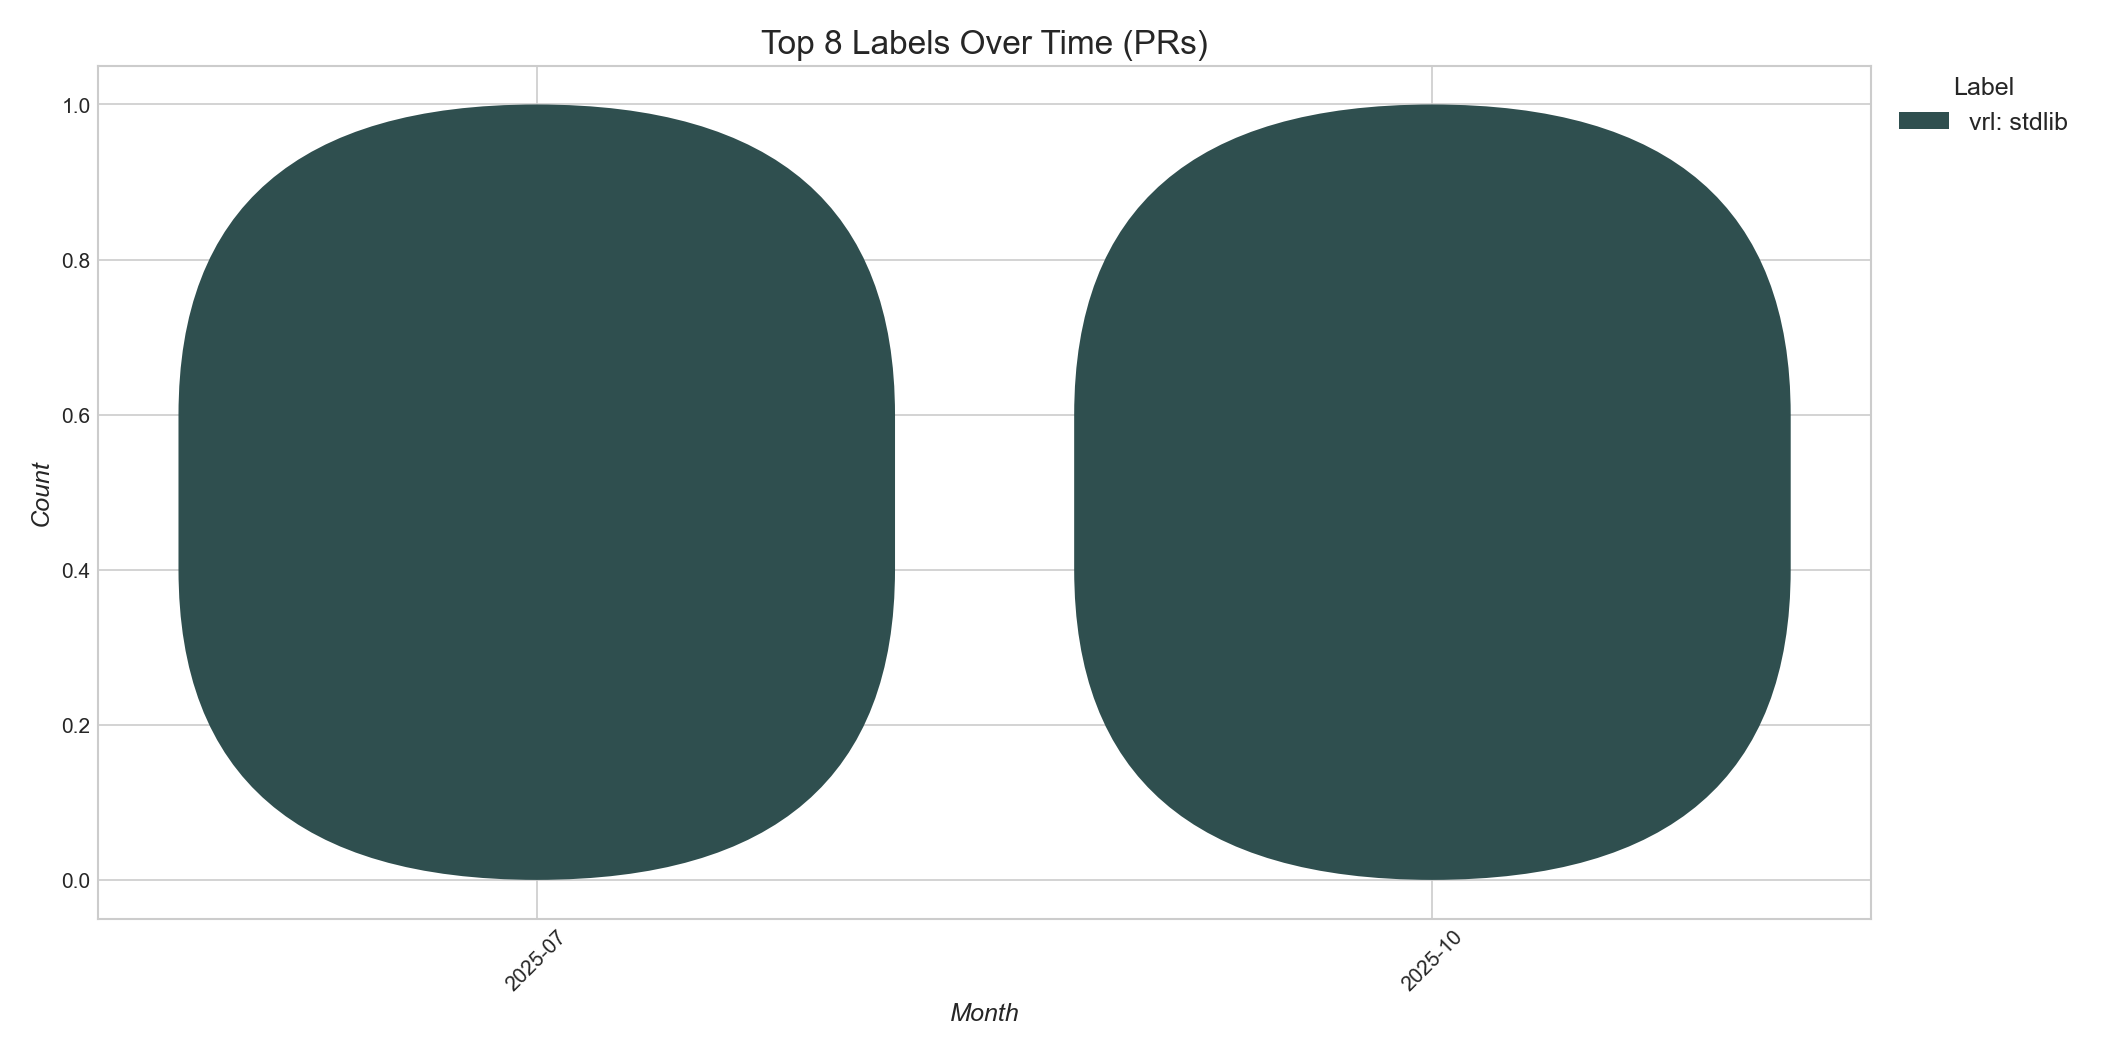
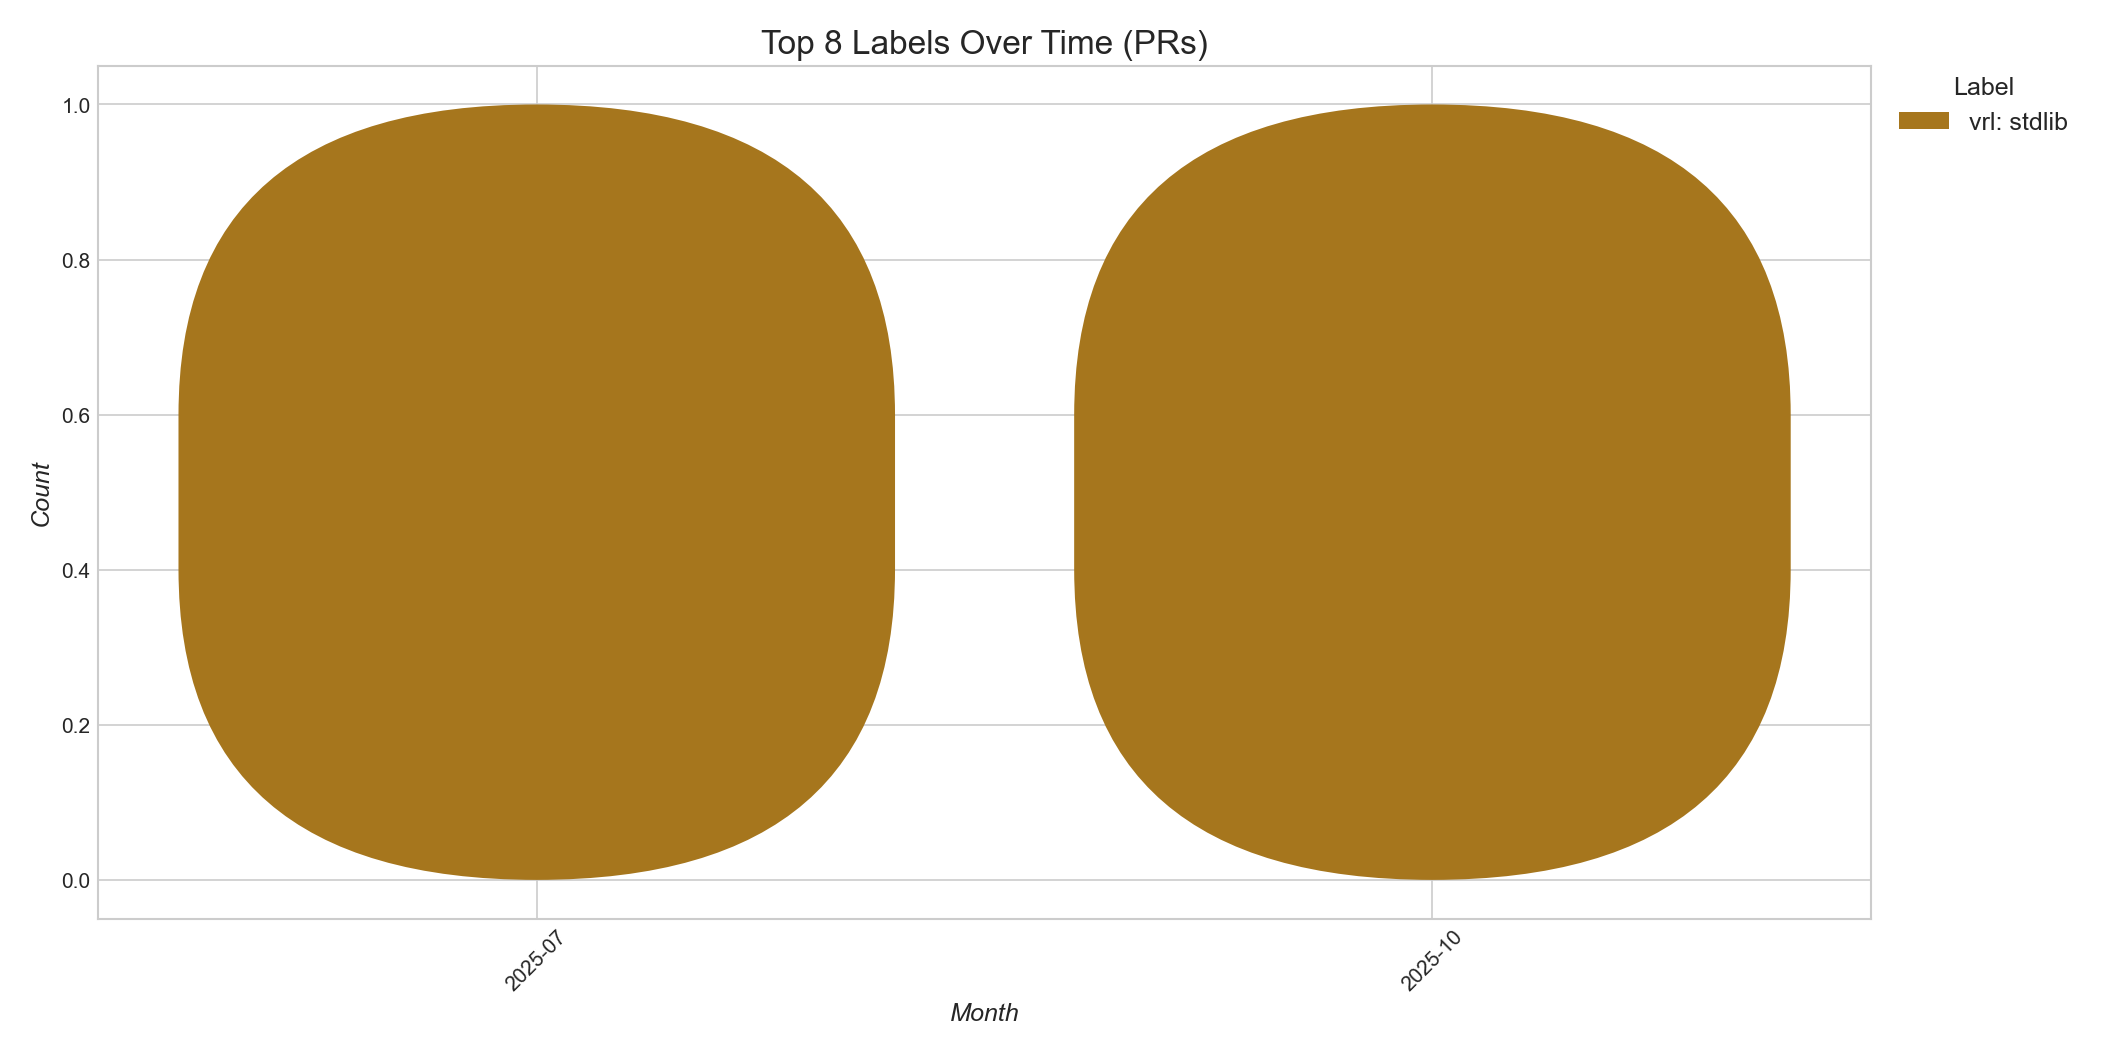
Replace random CSS4 color picks with curated categorical palette
The old get_label_color drew from mcolors.CSS4_COLORS, which contains
many near-white pastels (lavenderblush, ivory, mistyrose, ...). Multiple
labels in the same chart could land on visually identical washed-out
shades. Switch to a hand-curated palette of 15 high-saturation hues
(tab10 + Dark2/Set1 picks) so any two auto-assigned labels are clearly
distinguishable. Determinism is preserved via the same md5 hash.

diff --git a/scripts/util/plot.py b/scripts/util/plot.py
@@ -2,9 +2,7 @@ import argparse
 import hashlib
 import logging
 import os
-import random
 
-import matplotlib.colors as mcolors
 import matplotlib.pyplot as plt
 import numpy as np
 import pandas as pd
@@ -241,14 +239,34 @@ def main():
         plot_discussion_trend(disc_csv, output_path, start_date=args.start)
 
 
+# Curated categorical palette for auto-assigned label colors. Hand-picked
+# from tab10/Dark2/Set1 to keep neighbouring bars clearly distinguishable;
+# CSS4_COLORS (the old source) contained many pale pastels that washed out.
+_AUTO_PALETTE = [
+    "#1f77b4",  # blue
+    "#d62728",  # red
+    "#2ca02c",  # green
+    "#ff7f0e",  # orange
+    "#9467bd",  # purple
+    "#8c564b",  # brown
+    "#e377c2",  # pink
+    "#17becf",  # cyan
+    "#bcbd22",  # olive
+    "#7f7f7f",  # gray
+    "#a6761d",  # dark gold
+    "#666666",  # dim gray
+    "#1b9e77",  # teal
+    "#d95f02",  # rust
+    "#7570b3",  # indigo
+]
+
+
 def get_label_color(label_name):
     if label_name in COLOR_MAP:
         return COLOR_MAP[label_name]
 
-    all_colors = list(mcolors.CSS4_COLORS.values())
     seed = int(hashlib.md5(label_name.encode()).hexdigest(), 16)
-    random.seed(seed)
-    return random.choice(all_colors)
+    return _AUTO_PALETTE[seed % len(_AUTO_PALETTE)]
 
 
 def plot_monthly_summary_basic(path, table, output_path, start_date=None):
